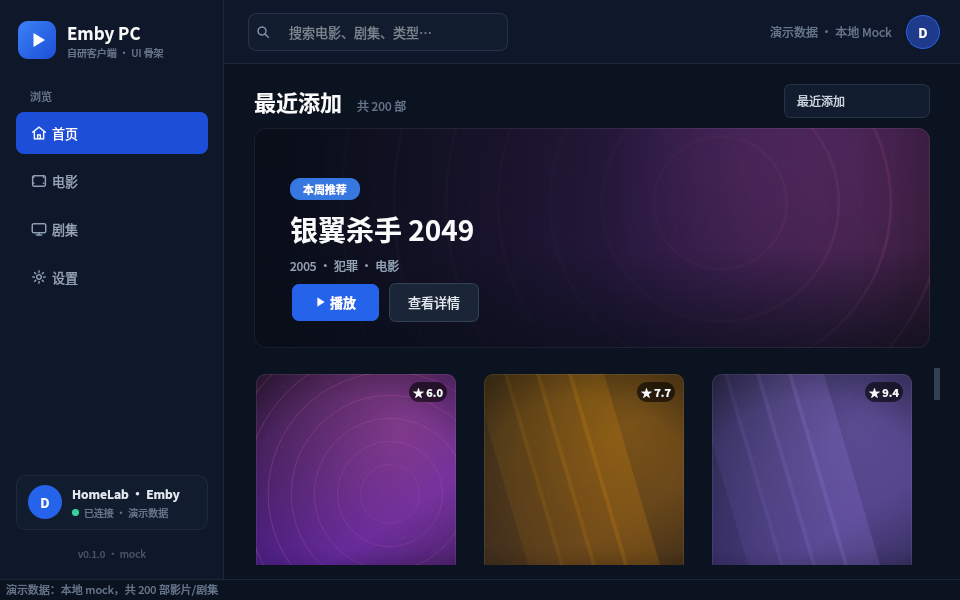
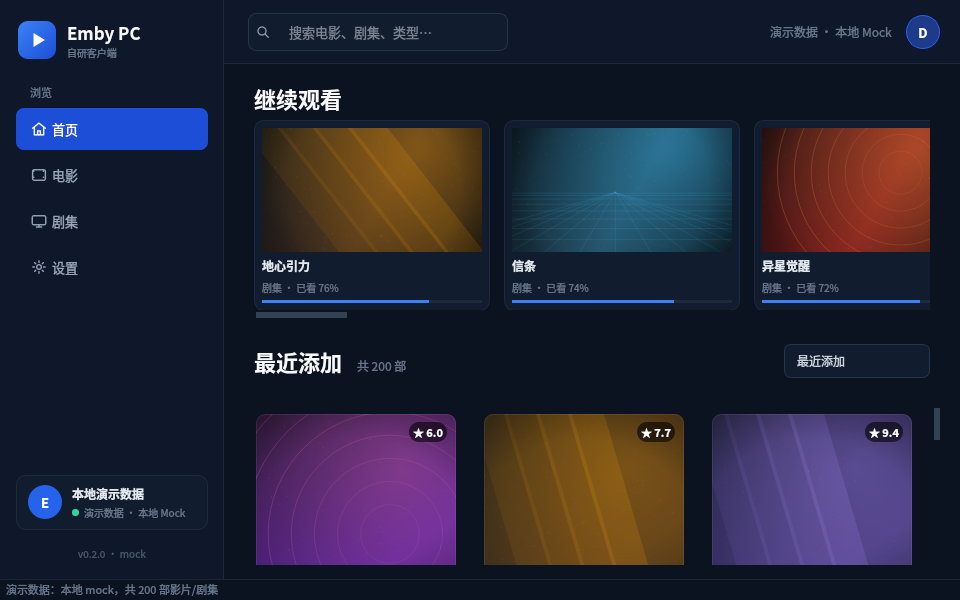
feat: real Emby library, views/items/resume/images + T7 fixes

diff --git a/app/src/ui/mainwindow.cpp b/app/src/ui/mainwindow.cpp
@@ -27,8 +27,6 @@
 #include <QTimer>
 #include <QVBoxLayout>
 
-#include <QDebug>
-
 #include <algorithm>
 
 namespace ui {
@@ -223,8 +221,6 @@ void MainWindow::connectSignals()
     connect(m_libraryView, &LibraryView::playRequested, this,
             [this](const QString &itemId) { playItem(itemId, -1, -1); });
     connect(m_libraryView, &LibraryView::loadMoreRequested, this, [this]() {
-        qDebug("loadMoreRequested mock=%d loading=%d hasMore=%d start=%d", int(m_mockMode),
-               int(m_libraryLoading), int(m_libraryHasMore), m_libraryStart);
         if (m_mockMode || m_libraryLoading || !m_libraryHasMore)
             return;
         m_libraryLoading = true;
@@ -429,7 +425,6 @@ void MainWindow::loadMockHome()
     m_home->recentView()->setTotalCount(m_mockLibrary.size());
     m_home->recentView()->setHasMore(false);
     m_home->setLoading(false);
-    m_realHomeLoaded = false;
 }
 
 void MainWindow::loadMockSection(int sectionIndex)
@@ -461,6 +456,9 @@ void MainWindow::loadRealViews()
     if (!m_data || !hasSession())
         return;
     m_data->fetchViews([this](const QList<LibrarySection> &sections, const QString &error) {
+        // 退出登录/切回 mock 后，迟到的响应不能再填充真实媒体库。
+        if (!hasSession() || m_mockMode)
+            return;
         if (!error.isEmpty()) {
             statusBar()->showMessage(QStringLiteral("加载媒体库列表失败：%1").arg(error), 5000);
             emit dataLoaded(false, error);
@@ -506,7 +504,6 @@ void MainWindow::loadRealHome()
         m_home->setLoading(false);
         m_home->recentView()->setTotalCount(recent.size());
         m_home->recentView()->setHasMore(false);
-        m_realHomeLoaded = true;
         rememberItems(resume);
         rememberItems(recent);
         emit dataLoaded(true, QString());
@@ -566,13 +563,9 @@ void MainWindow::loadLibraryPage()
     const int sortMode = m_libraryView->sortMode();
     const QString searchTerm = m_search ? m_search->text().trimmed() : QString();
 
-    qDebug("loadLibraryPage start=%d sort=%d search=%s gen=%d", start, sortMode,
-           qPrintable(searchTerm), generation);
     m_data->fetchItems(section, start, 60, sortMode, searchTerm,
                        [this, generation, start](const QList<MediaItem> &items, int total,
                                                  bool hasMore, const QString &error) {
-                           qDebug("loadLibraryPage result start=%d count=%d total=%d hasMore=%d err=%s",
-                                  start, int(items.size()), total, int(hasMore), qPrintable(error));
                            if (generation != m_libraryGeneration)
                                return;
                            m_libraryLoading = false;
@@ -650,6 +643,7 @@ void MainWindow::setMockMode(bool enabled)
     m_cache->clear();
     m_libraryGeneration++;
     m_homeGeneration++;
+    m_detailGeneration++;
     m_libraryLoading = false;
     m_currentSection = -1;
     if (m_search)
@@ -674,8 +668,6 @@ bool MainWindow::openDetail(const QString &itemId)
     MediaItem known;
     const bool fromKnown = knownItem(itemId, &known);
     const bool fromList = !fromKnown && listedItem(itemId, &known);
-    qDebug("openDetail id=%s known=%d list=%d title=%s", qPrintable(itemId), int(fromKnown),
-           int(fromList), qPrintable(known.title));
     const bool hasKnown = fromKnown || fromList;
     if (hasKnown)
         showDetailFor(known);
@@ -969,7 +961,6 @@ void MainWindow::onLoggedIn(const emby::ServerProfile &profile, const emby::Serv
     m_mockMode = false;
     m_settings->setMockMode(false);
     m_currentSection = -1;
-    m_realHomeLoaded = false;
     ++m_homeGeneration;
     ++m_libraryGeneration;
     updateSessionUi();
@@ -999,9 +990,9 @@ void MainWindow::logout()
     m_knownItems.clear();
     m_sections.clear();
     m_currentSection = -1;
-    m_realHomeLoaded = false;
     ++m_homeGeneration;
     ++m_libraryGeneration;
+    ++m_detailGeneration;
     m_libraryLoading = false;
     m_settings->clearSession();
     m_home->setResumeItems({});

diff --git a/app/src/ui/librarydata.cpp b/app/src/ui/librarydata.cpp
@@ -21,15 +21,6 @@ QStringList listFields()
     };
 }
 
-QStringList detailFields()
-{
-    QStringList fields = listFields();
-    fields << QStringLiteral("Container") << QStringLiteral("Path")
-           << QStringLiteral("MediaSources") << QStringLiteral("MediaStreams")
-           << QStringLiteral("ProviderIds");
-    return fields;
-}
-
 QStringList itemTypesForCollection(const QString &collectionType)
 {
     if (collectionType == QLatin1String("movies"))
@@ -59,11 +50,6 @@ int runtimeMinutesFromTicks(qint64 ticks)
     if (ticks <= 0)
         return 0;
     return qMax(1, int(ticks / 600000000LL));
-}
-
-QString friendlyOrEmpty(const emby::ApiError &error)
-{
-    return error.isError() ? friendlyApiError(error) : QString();
 }
 
 } // namespace
@@ -199,7 +185,9 @@ void LibraryData::fetchItems(const LibrarySection &section, int startIndex, int 
 
     const int pageSize = qBound(1, limit, 200);
 
-    auto makeQuery = [&](int start) {
+    // 注意：step 可能在 fetchItems() 返回后才执行，必须按值捕获所有局部变量，
+    // 否则 section/searchTerm/sortMode 会变成悬空引用（MSVC Debug 下更易暴露）。
+    auto makeQuery = [section, sortMode, searchTerm, pageSize](int start) {
         emby::ItemQuery query;
         query.parentId = section.id;
         query.recursive = true;
@@ -247,7 +235,10 @@ void LibraryData::fetchItems(const LibrarySection &section, int startIndex, int 
     state->next = qMax(0, startIndex);
     state->initial = state->next;
 
-    auto finish = [state, pageSize](bool failed, const QString &message) {
+    auto step = QSharedPointer<std::function<void()>>::create();
+    auto finish = [state, step, pageSize](bool failed, const QString &message) {
+        // 断开 step 的自引用，避免异步递归持有的 shared_ptr 循环泄漏。
+        *step = std::function<void()>();
         if (!state->handler)
             return;
         if (failed && state->items.isEmpty() && state->initial == 0) {
@@ -263,7 +254,6 @@ void LibraryData::fetchItems(const LibrarySection &section, int startIndex, int 
         callback(state->items, total, hasMore, QString());
     };
 
-    auto step = QSharedPointer<std::function<void()>>::create();
     *step = [this, makeQuery, state, step, pageSize, finish]() {
         const int requestStart = state->next;
         m_client->fetchItems(

diff --git a/app/src/ui/demo_main.cpp b/app/src/ui/demo_main.cpp
@@ -845,10 +845,10 @@ int runLiveData(QApplication &app)
             out << "INFO  该媒体库不足一页，跳过分页断言\n";
         }
 
-        const QStringList ids = library->visibleItemIds();
-        check(!ids.isEmpty(), QStringLiteral("媒体库返回可见 item"));
-        if (!ids.isEmpty()) {
-            window.openDetail(ids.first());
+        const QList<ui::MediaItem> visible = library->visibleItems();
+        check(!visible.isEmpty(), QStringLiteral("媒体库返回可见 item"));
+        if (!visible.isEmpty()) {
+            window.openDetail(visible.first().id);
             auto *detail = window.findChild<ui::DetailView *>();
             const bool detailOk = waitFor([detail]() {
                 return detail && !detail->currentItem().id.isEmpty()
@@ -867,9 +867,9 @@ int runLiveData(QApplication &app)
         seriesSection && waitFor([series]() { return series && series->itemCount() > 0; }, 15000);
     check(seriesLoaded, QStringLiteral("剧集媒体库加载"));
     if (seriesLoaded) {
-        const QStringList ids = series->visibleItemIds();
-        if (!ids.isEmpty()) {
-            window.openDetail(ids.first());
+        const QList<ui::MediaItem> visible = series->visibleItems();
+        if (!visible.isEmpty()) {
+            window.openDetail(visible.first().id);
             auto *detail = window.findChild<ui::DetailView *>();
             const bool seasonsOk = waitFor([detail]() {
                 return detail && !detail->currentItem().seasons.isEmpty()

diff --git a/app/src/ui/homeview.cpp b/app/src/ui/homeview.cpp
@@ -141,7 +141,8 @@ HomeView::HomeView(ThumbnailCache *cache, QWidget *parent)
     scroll->setFrameShape(QFrame::NoFrame);
     scroll->setHorizontalScrollBarPolicy(Qt::ScrollBarAsNeeded);
     scroll->setVerticalScrollBarPolicy(Qt::ScrollBarAlwaysOff);
-    scroll->setFixedHeight(174);
+    // 卡片内容高度约 188，加上横向滚动条 10，留 200 避免底部进度条被裁切。
+    scroll->setFixedHeight(200);
 
     m_resumeContent = new QWidget(scroll);
     m_resumeContent->setObjectName(QStringLiteral("ResumeContent"));

diff --git a/app/src/ui/mediamodel.cpp b/app/src/ui/mediamodel.cpp
@@ -21,6 +21,8 @@ QVariant MediaListModel::data(const QModelIndex &index, int role) const
 
     const MediaItem &item = m_items.at(index.row());
     switch (role) {
+    case ItemIdRole:
+        return item.id;
     case Qt::DisplayRole:
     case TitleRole:
         return item.title;

diff --git a/app/src/ui/mainwindow.h b/app/src/ui/mainwindow.h
@@ -178,7 +178,6 @@ private:
     int m_detailGeneration = 0;
     bool m_libraryLoading = false;
     bool m_libraryHasMore = false;
-    bool m_realHomeLoaded = false;
 
     MediaItem m_currentItem;
     int m_currentSeason = -1;

diff --git a/app/src/ui/README.md b/app/src/ui/README.md
@@ -1,21 +1,26 @@
-# app/src/ui — Qt Widgets UI 骨架（T4）与登录/会话（T6）
+# app/src/ui — Qt Widgets UI（T4）+ 登录/会话（T6）+ 真实媒体库（T7 / M2-B）
 
-Emby PC 客户端的表现层：**Qt 6 Widgets + 深色 QSS**。T4 完成主窗口/媒体库/详情/播放页骨架（mock 数据），
-T6 增加登录对话框、Token 持久化、启动自动恢复与设置页账户信息；媒体库仍为 mock（M2-B 再接真实数据）。
+Emby PC 客户端的表现层：**Qt 6 Widgets + 深色 QSS**。T4 完成主窗口/媒体库/详情/播放页骨架，
+T6 增加登录对话框、Token 持久化、启动自动恢复，T7（M2-B）把 mock 数据替换为真实 Emby API：
+/Views 动态侧边栏、/Items 分页/排序/搜索、首页 Resume + 最近添加、真实海报异步加载、真实详情（季/集）。
+设置页保留“演示数据（Mock）”开关，未登录/离线时仍可回归 UI。
 
 ## 目录结构
 
 | 文件 | 职责 |
 |---|---|
-| `mainwindow.h/.cpp` | 主窗口壳：侧边栏 + 顶栏搜索 + QStackedWidget 页面栈（首页/电影/剧集/设置/详情/播放） |
-| `sidebar.h/.cpp` | 左侧导航（首页/电影/剧集/设置）+ 服务器状态卡片 |
-| `libraryview.h/.cpp` | 媒体库页：QListView(IconMode) + PosterDelegate 海报网格、搜索过滤、排序、空状态、首页 Hero banner |
+| `mainwindow.h/.cpp` | 主窗口壳：动态侧边栏 + 顶栏搜索 + 页面栈（首页/媒体库/设置/详情/播放），负责真实/mock 数据源切换 |
+| `sidebar.h/.cpp` | 左侧导航：首页 + 来自 /Views 的动态媒体库列表 + 设置 + 服务器状态卡片 |
+| `homeview.h/.cpp` | 首页：继续观看（Resume 横向卡片）+ 最近添加（复用 LibraryView 海报网格） |
+| `libraryview.h/.cpp` | 媒体库页：QListView(IconMode) + PosterDelegate 海报网格、服务端分页/排序/搜索、加载/空/错误状态 |
+| `librarydata.h/.cpp` | UI 数据层：Views / Items 分页 / Home(Resume+最近添加) / 详情(季集) 的 Emby 请求编排与 DTO 映射 |
 | `posterdelegate.h/.cpp` | 海报卡片绘制：圆角海报、评分角标、观看进度条、hover/选中态 |
 | `mediamodel.h/.cpp` | `MediaListModel`（QAbstractListModel）+ `MediaFilterProxyModel` 搜索过滤 |
-| `detailview.h/.cpp` | 详情页：背景/海报、标题元数据、简介、播放按钮、季/集列表（mock） |
+| `detailview.h/.cpp` | 详情页：背景/海报、标题元数据、简介、播放按钮、真实季/集列表 |
 | `playerpage.h/.cpp` | 播放页容器：VideoHost 占位 + 播放/暂停/上下集/字幕/音轨等信号 |
 | `thumbnailcache.h/.cpp` | 缩略图缓存接口：同步 get + 异步 request + LRU，默认生成离线占位海报 |
-| `postergenerator.h/.cpp` | 确定性抽象海报/背景图生成（mock 资源） |
+| `embythumbnailcache.h/.cpp` | 真实 Emby 图片缓存：QNetworkAccessManager + Authorization 头异步下载，失败回填占位图 |
+| `postergenerator.h/.cpp` | 确定性抽象海报/背景图生成（离线占位资源） |
 | `icons.h/.cpp` | 24x24 线性矢量图标集，不依赖系统主题 |
 | `mocklibrary.h/.cpp` | 200 部 mock 媒体库（电影/剧集、季/集、观看进度，确定性） |
 | `logindialog.h/.cpp` | 登录/连接对话框：测试连接、登录、HTTPS 自签开关、中文错误提示 |
@@ -66,6 +71,11 @@ cmake --build /tmp/emby-ui-build2 -j"$(nproc)"
 QT_QPA_PLATFORM=offscreen /tmp/emby-ui-build2/emby-ui-demo --selftest
 QT_QPA_PLATFORM=offscreen /tmp/emby-ui-build2/emby-ui-demo --screenshot app/src/ui/preview
 
+# 真实服务器数据链路（登录 -> Views -> 首页 -> 分页 -> 详情 -> 季/集）
+QT_QPA_PLATFORM=offscreen EMBY_TEST_URL='http://<server>:8096' \
+  EMBY_TEST_USER='<user>' EMBY_TEST_PASSWORD='<pass>' \
+  /tmp/emby-ui-build2/emby-ui-demo --live-data
+
 # 有桌面环境时直接预览（demo 默认跳过登录）
 /tmp/emby-ui-build2/emby-ui-demo
 ```
@@ -109,7 +119,36 @@ QT_QPA_PLATFORM=offscreen EMBY_TEST_URL='http://<server>:8096' \
   /tmp/emby-ui-build2/emby-ui-demo --live-login
 ```
 
-`--selftest` 默认使用本地假 Emby 服务器（QTcpServer），不依赖真实网络；`--live-login` 才访问环境变量指定的真实服务器。
+`--selftest` 默认使用本地假 Emby 服务器（QTcpServer），不依赖真实网络；`--live-login` / `--live-data` 才访问环境变量指定的真实服务器。
+
+## 真实媒体库（T7 / M2-B）
+
+### 数据流
+
+1. **Views → 侧边栏**：登录/恢复会话成功后调用 `GET /Users/{userId}/Views`，
+   过滤 `CollectionFolder` / `UserView`，按 movies / tvshows / boxsets 排序后生成动态导航。
+2. **Items 分页**：`GET /Users/{userId}/Items?ParentId=...&StartIndex=&Limit=60&SortBy=&SearchTerm=`；
+   - 滚动条接近底部（<420px）自动请求下一页，`StartIndex` 递增；
+   - 排序（最近添加 / 名称 / 评分 / 年份）由服务器 `SortBy/SortOrder` 完成；
+   - 搜索走服务器 `SearchTerm`（不在已加载的 60 条里本地过滤）；
+   - Emby 4.9 对 `IncludeItemTypes=Series` 的 `TotalRecordCount` 会按“集数”计数，
+     数据层在单页不足 60 个剧集时自动补页，避免剧集库首屏只有 5 部。
+3. **首页**：`/Users/{userId}/Items/Resume` 横向“继续观看” + `/Items?SortBy=DateCreated` 最近添加 24 项。
+4. **海报**：`LibraryData` 用 `EmbyClient::imageUrl()` 生成不含 token 的 URL 作为缓存 key；
+   `EmbyThumbnailCache` 用 `QNetworkAccessManager` 异步下载，请求头带
+   `Authorization: MediaBrowser ...Token="..."`；失败时回填离线占位图，避免每次重绘重复请求。
+5. **详情**：`GET /Users/{userId}/Items/{id}`；剧集再并行拉 `IncludeItemTypes=Season` 与
+   `IncludeItemTypes=Episode`，按 `ParentIndexNumber` 分组。列表页已带 Fields，点开详情先用列表数据
+   立即渲染，再异步补齐季/集。
+6. **mock 开关**：设置页“界面 → 数据源 → 使用演示数据（本地 Mock）”。关闭时若无会话会拉起登录框；
+   登录成功后自动切到真实数据。登录/退出会清空图片缓存，避免串号。
+
+### 错误 / 空 / 加载状态
+
+- 首屏：`LibraryView::setInitialLoading(true)` 显示“正在加载 ……”；
+- 空结果：区分“媒体库没有内容”和“搜索无匹配”；
+- 请求失败：展示 `friendlyApiError()` 中文错误（连接拒绝、超时、证书、401/403、5xx）；
+- 分页失败：保留已加载内容，只在状态栏提示“加载更多失败”。
 
 ## 与播放器 / 数据层对接
 
@@ -140,39 +179,54 @@ playerPage->releaseVideoSurface();               // 停止播放/退出时恢复
 回填接口：`setEpisodeInfo(title, subtitle)`、`setPosition(posMs, durationMs)`、`setPlaying(bool)`、
 `setSubtitleTracks(QList<TrackInfo>)`、`setAudioTracks(...)`、`setVolume(int)`、`setFullscreen(bool)`。
 
-### 3. 媒体数据（mock → Emby API）
+### 3. 媒体数据（真实 Emby API）
 
-`LibraryView::setItems(QList<MediaItem>)` 接收 `ui::MediaItem`（见 `uitypes.h`，字段与 Emby DTO 对齐）。
-真实接入时由 `app/src/emby` 的映射层填充 `MediaItem` 后调用即可，海报走 `thumbnailcache`：
+`ui::LibraryData` 负责把 `emby::MediaItem` 映射成 `ui::MediaItem`（见 `uitypes.h`），
+`LibraryView::setItems()/appendItems()` 与 `HomeView::setRecentItems()` 只消费 UI DTO。
 
-- 现在：`ThumbnailCache::generate()` 用 `postergenerator` 生成离线占位图。
-- 接网络：继承 `ThumbnailCache` 重写 `generate()`（或用 `insert()` 回填 async 下载结果），
-  delegate 的同步 `get()` + `thumbnailReady` 重绘机制无需改动。
+- 真实图片：`EmbyThumbnailCache` 继承 `ThumbnailCache::loadAsync()`，按 URL key 异步下载；
+  delegate 的同步 `get()` + `thumbnailReady` 重绘机制不变。
+- mock 图片：非 http key 仍走 `postergenerator` 离线占位图。
+- 播放链路（T8）可直接使用 `LibraryData` 已请求的 Fields（Duration/MediaSources 等按需补充），
+  或调用 `MainWindow::embyClient()` 自行请求 `/Items/{id}/PlaybackInfo`。
 
 ## 验证结果（本容器，Qt 6.8.2 / CMake 3.31 / GCC 14）
 
-`QT_QPA_PLATFORM=offscreen emby-ui-demo --selftest` 共 **53 项全部 PASS**，包括：
+`QT_QPA_PLATFORM=offscreen emby-ui-demo --selftest` 共 **71 项全部 PASS**，包括：
 
-- mock 媒体库 200 部；QListView 模型 200 行；海报网格 gridSize 生效；
-- 搜索“星际”过滤为 5 条，清空恢复 200 条；
-- 200 项从头滚到底：5 帧平均 **15~18 ms/帧**（offscreen 软件渲染，含整窗 grab，仅作回归基线）；
-- 页面栈切换（首页/电影/剧集/详情/播放）索引正确；
-- 播放页播放/暂停、上一集、下一集按钮各发出 1 次对应信号；
-- `attachVideoSurface()` 可替换占位、`releaseVideoSurface()` 可恢复；
-- 登录：假服务器测试连接/登录成功、401 密码错误、连接拒绝中文提示、token 不泄露到状态栏/URL；
-- TokenStore 保存/读取 ServerProfile、启动自动恢复、退出登录清除、过期 token 回登录页；
-- 设置页服务器/用户/版本显示、`embyClient()` 与 `loginStateChanged(bool)` 信号。
+- mock：媒体库 200 部、首页 Resume 卡片、电影/剧集复用同一 LibraryView、页面栈索引；
+- QListView 模型 200 行、海报 gridSize 生效、搜索“星际”5 条、滚动平均 15~18 ms/帧；
+- 播放页信号、`attachVideoSurface()/releaseVideoSurface()`；
+- 假 Emby 服务器（QTcpServer）上的真实链路：
+  - 登录/401/连接拒绝/TokenStore 持久化/启动自动恢复/过期 token 回登录页；
+  - /Views 生成 2 个动态媒体库按钮；
+  - 首页最近添加来自 /Items；
+  - 服务器端 `SearchTerm` 搜索 + 空状态；
+  - 真实详情季/集渲染 EpisodeRow；
+  - 海报图片请求带 Authorization 且 token 不在 URL；
+  - 设置页 mock 开关可来回切换数据源。
+- `embyClient()`、`loginStateChanged(bool)`、`MainWindow::visibleItems()` 等 T8 接口可用。
 
-真实 Emby 联调（容器可达、凭据由环境变量传入的服务器）通过：测试连接 → authenticate → fetch Views → 启动自动恢复 token 均成功（凭据仅通过环境变量传入，不写入代码/日志）。
+真实 Emby 联调（容器可达、凭据由环境变量传入）`--live-data` 全部 PASS：
+登录 → Views（Movie / 电视节目 / 合集）→ 首页最近添加 24 项 → Movie 库首屏 60/96
+→ 滚动分页 60→96 → 真实详情 → 剧集详情 1 季 28 集。
+凭据仅通过环境变量传入，不写入代码/日志。
 
 `app/` 根工程完整构建通过（`emby-pc` 可执行文件链接了 `emby` + `ui` 静态库）。
+
+### CI / 跨平台注意（Windows MSVC）
+
+- 所有 `qBound/std::min/std::max` 的实参类型一致；`StackPage` 与 `int` 混用处已显式
+  `static_cast<int>`，避免 MSVC 模板推导歧义（GCC 较宽松）。
+- 枚举值保持唯一（每个 `MainWindow::Page` 对应独立值，别名仅通过等价逻辑处理）。
+- 未使用参数用 `Q_UNUSED`；`QList` 与 `QVector` 在 Qt 6 已统一，代码未使用差异 API。
 
 ### 预览截图（1280x760 / 960x600）
 
 | 页面 | 截图 |
 |---|---|
-| 首页（Hero + 海报网格） | [01-home.png](preview/01-home.png) |
-| 电影库 | [02-movies.png](preview/02-movies.png) |
+| 首页（继续观看 + 最近添加） | [01-home.png](preview/01-home.png) |
+| 媒体库（真实/演示数据共用） | [02-movies.png](preview/02-movies.png) |
 | 详情页 | [03-detail.png](preview/03-detail.png) |
 | 详情页 · 剧集列表 | [04-detail-episodes.png](preview/04-detail-episodes.png) |
 | 播放页（VideoHost 占位 + 控制条） | [05-player.png](preview/05-player.png) |
@@ -185,10 +239,11 @@ playerPage->releaseVideoSurface();               // 停止播放/退出时恢复
 
 ## 已知限制 / 后续
 
-- 媒体库数据仍为本地 mock（M2-B 接真实 Views/Items）；未接真实播放器（播放页仅状态演示）。
-- 海报/背景图为程序生成的抽象图（离线占位），非真实海报。
+- 未接真实播放器（播放页仅状态演示）；播放链路在 T8 接 mpv/PlaybackInfo。
+- 真实海报已按 Authorization 异步下载；失败/离线时回退程序生成的抽象占位图。
 - 播放器控制条当前为 Qt 控件版（方案 B 的骨架）；最终采用 mpv OSC（方案 A）时，
   `PlayerPage` 的控制条可切换为隐藏/纯状态显示，视频区仍由 `attachVideoSurface` 挂载。
 - 主窗口暂用系统标题栏；无边框 DWM 方案（P5）后续在 WindowController 层实现。
-- 未实现真实图片异步下载线程池；`ThumbnailCache` 已留好接口与 LRU。
+- 图片请求未做并发上限/取消（LRU + 重复 key 合并已生效），后续可加队列。
 - TokenStore 当前为 QSettings 明文临时实现（Windows DPAPI 待补）。
+- 真实首页最近添加固定 24 项；“查看全部”尚未做独立页面（媒体库页可浏览全部）。
